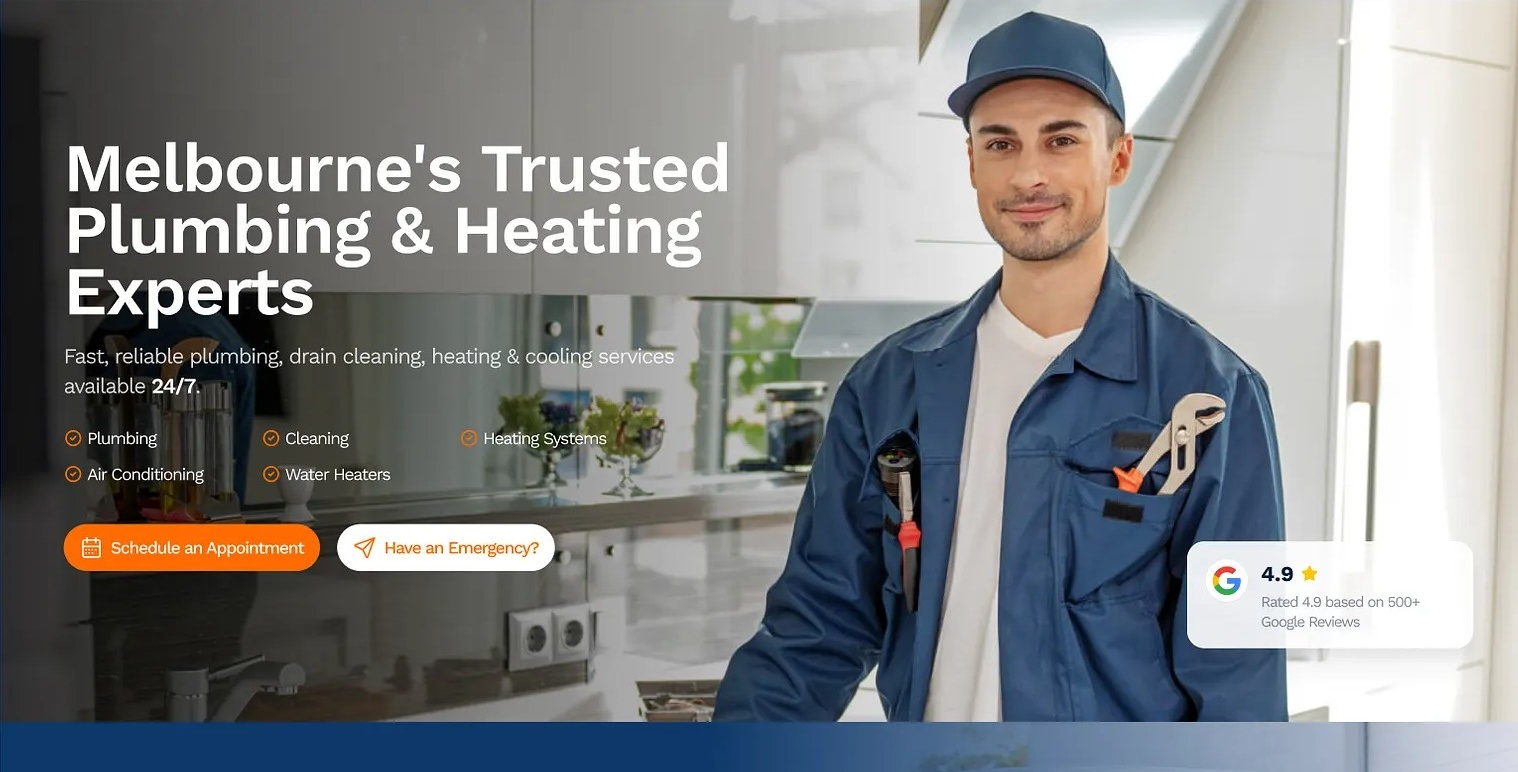
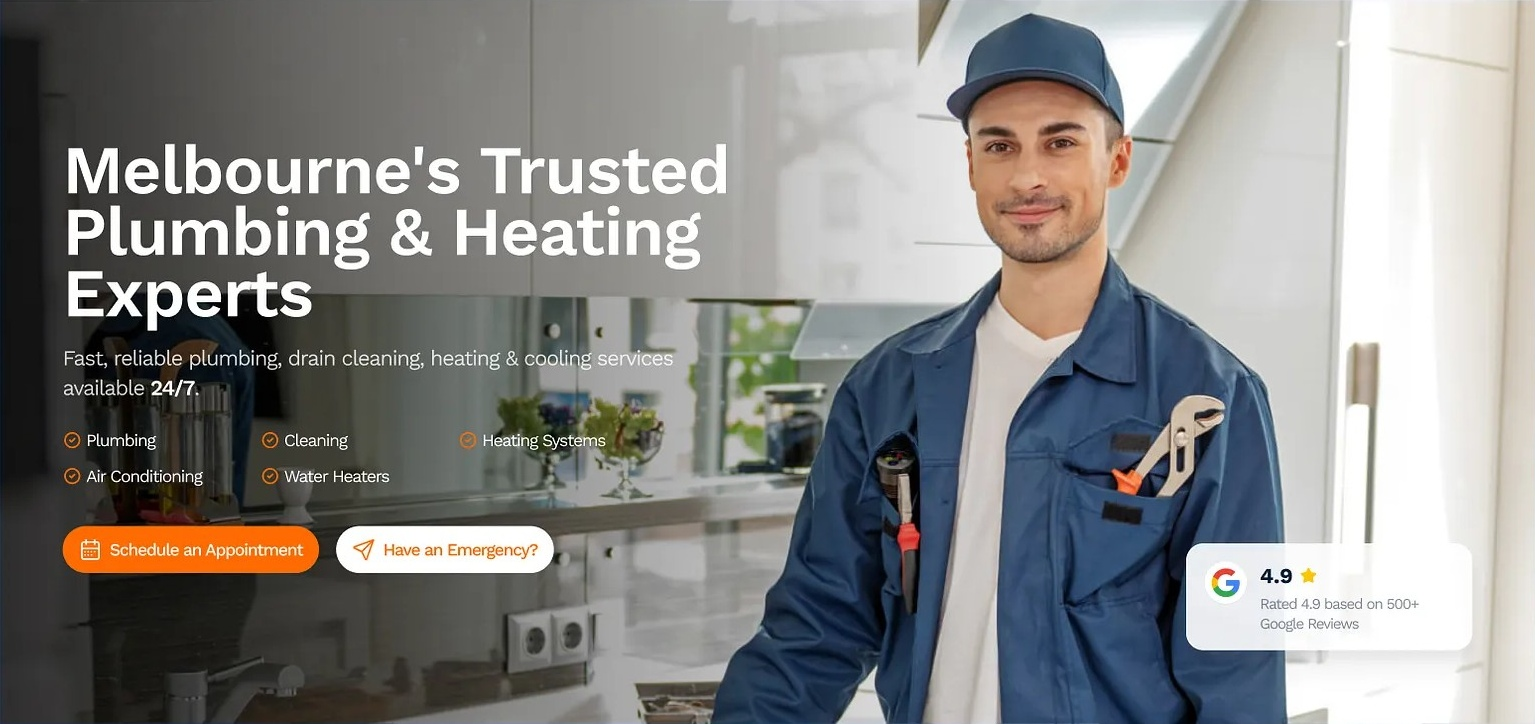
fix: crop hero image to exact boundary eliminating bottom van artifact

diff --git a/src/components/hero/HeroSection.tsx b/src/components/hero/HeroSection.tsx
@@ -50,15 +50,15 @@ export default function HeroSection() {
       {/* ============================================================ */}
       {/* DESKTOP / TABLET HERO (md:block): EXACT PIXEL-PERFECT MASTER */}
       {/* ============================================================ */}
-      <div className="hidden md:block relative w-full aspect-[1518/772] max-w-[1920px] mx-auto overflow-hidden select-none">
-        {/* High-Resolution Master Hero Banner */}
+      <div className="hidden md:block relative w-full aspect-[1535/724] max-w-[1920px] mx-auto overflow-hidden select-none">
+        {/* High-Resolution Master Hero Banner (Cleaned with ZERO bottom van / border artifacts) */}
         <Image
           src="/images/hero-apex.jpg"
           alt="Melbourne's Trusted Plumbing & Heating Experts - Apex Plumbing"
           fill
           priority
           sizes="100vw"
-          className="object-cover object-center pointer-events-none"
+          className="object-cover object-top pointer-events-none"
         />
 
         {/* 1. Interactive Button Hotspot: Schedule an Appointment */}
@@ -67,10 +67,10 @@ export default function HeroSection() {
           onClick={(e) => handleScrollTo(e, 'wizard')}
           className="absolute z-30 rounded-full transition-all duration-200 hover:scale-[1.03] active:scale-[0.98] cursor-pointer focus:outline-none focus:ring-4 focus:ring-orange-400"
           style={{
-            left: '4.28%',
-            top: '67.8%',
-            width: '16.7%',
-            height: '6.0%',
+            left: '4.1%',
+            top: '72.5%',
+            width: '16.6%',
+            height: '6.2%',
           }}
           aria-label="Schedule an Appointment in quote wizard"
           title="Schedule an Appointment"
@@ -83,10 +83,10 @@ export default function HeroSection() {
           href={`tel:${SITE_CONFIG.business.phone}`}
           className="absolute z-30 rounded-full transition-all duration-200 hover:scale-[1.03] active:scale-[0.98] cursor-pointer focus:outline-none focus:ring-4 focus:ring-orange-400"
           style={{
-            left: '22.1%',
-            top: '67.8%',
-            width: '14.7%',
-            height: '6.0%',
+            left: '21.6%',
+            top: '72.5%',
+            width: '14.0%',
+            height: '6.2%',
           }}
           aria-label={`Call emergency dispatch at ${SITE_CONFIG.business.phone}`}
           title="Have an Emergency? Call 24/7"
@@ -100,10 +100,10 @@ export default function HeroSection() {
           onClick={(e) => handleScrollTo(e, 'reviews')}
           className="absolute z-30 rounded-2xl transition-all duration-200 hover:scale-[1.03] active:scale-[0.98] cursor-pointer focus:outline-none focus:ring-4 focus:ring-amber-400"
           style={{
-            left: '78.2%',
-            top: '64.5%',
-            width: '19.0%',
-            height: '14.5%',
+            left: '77.2%',
+            top: '71.5%',
+            width: '18.6%',
+            height: '15.5%',
           }}
           aria-label="View verified Google customer reviews"
           title="Google Reviews 4.9/5 - Click to read reviews"
